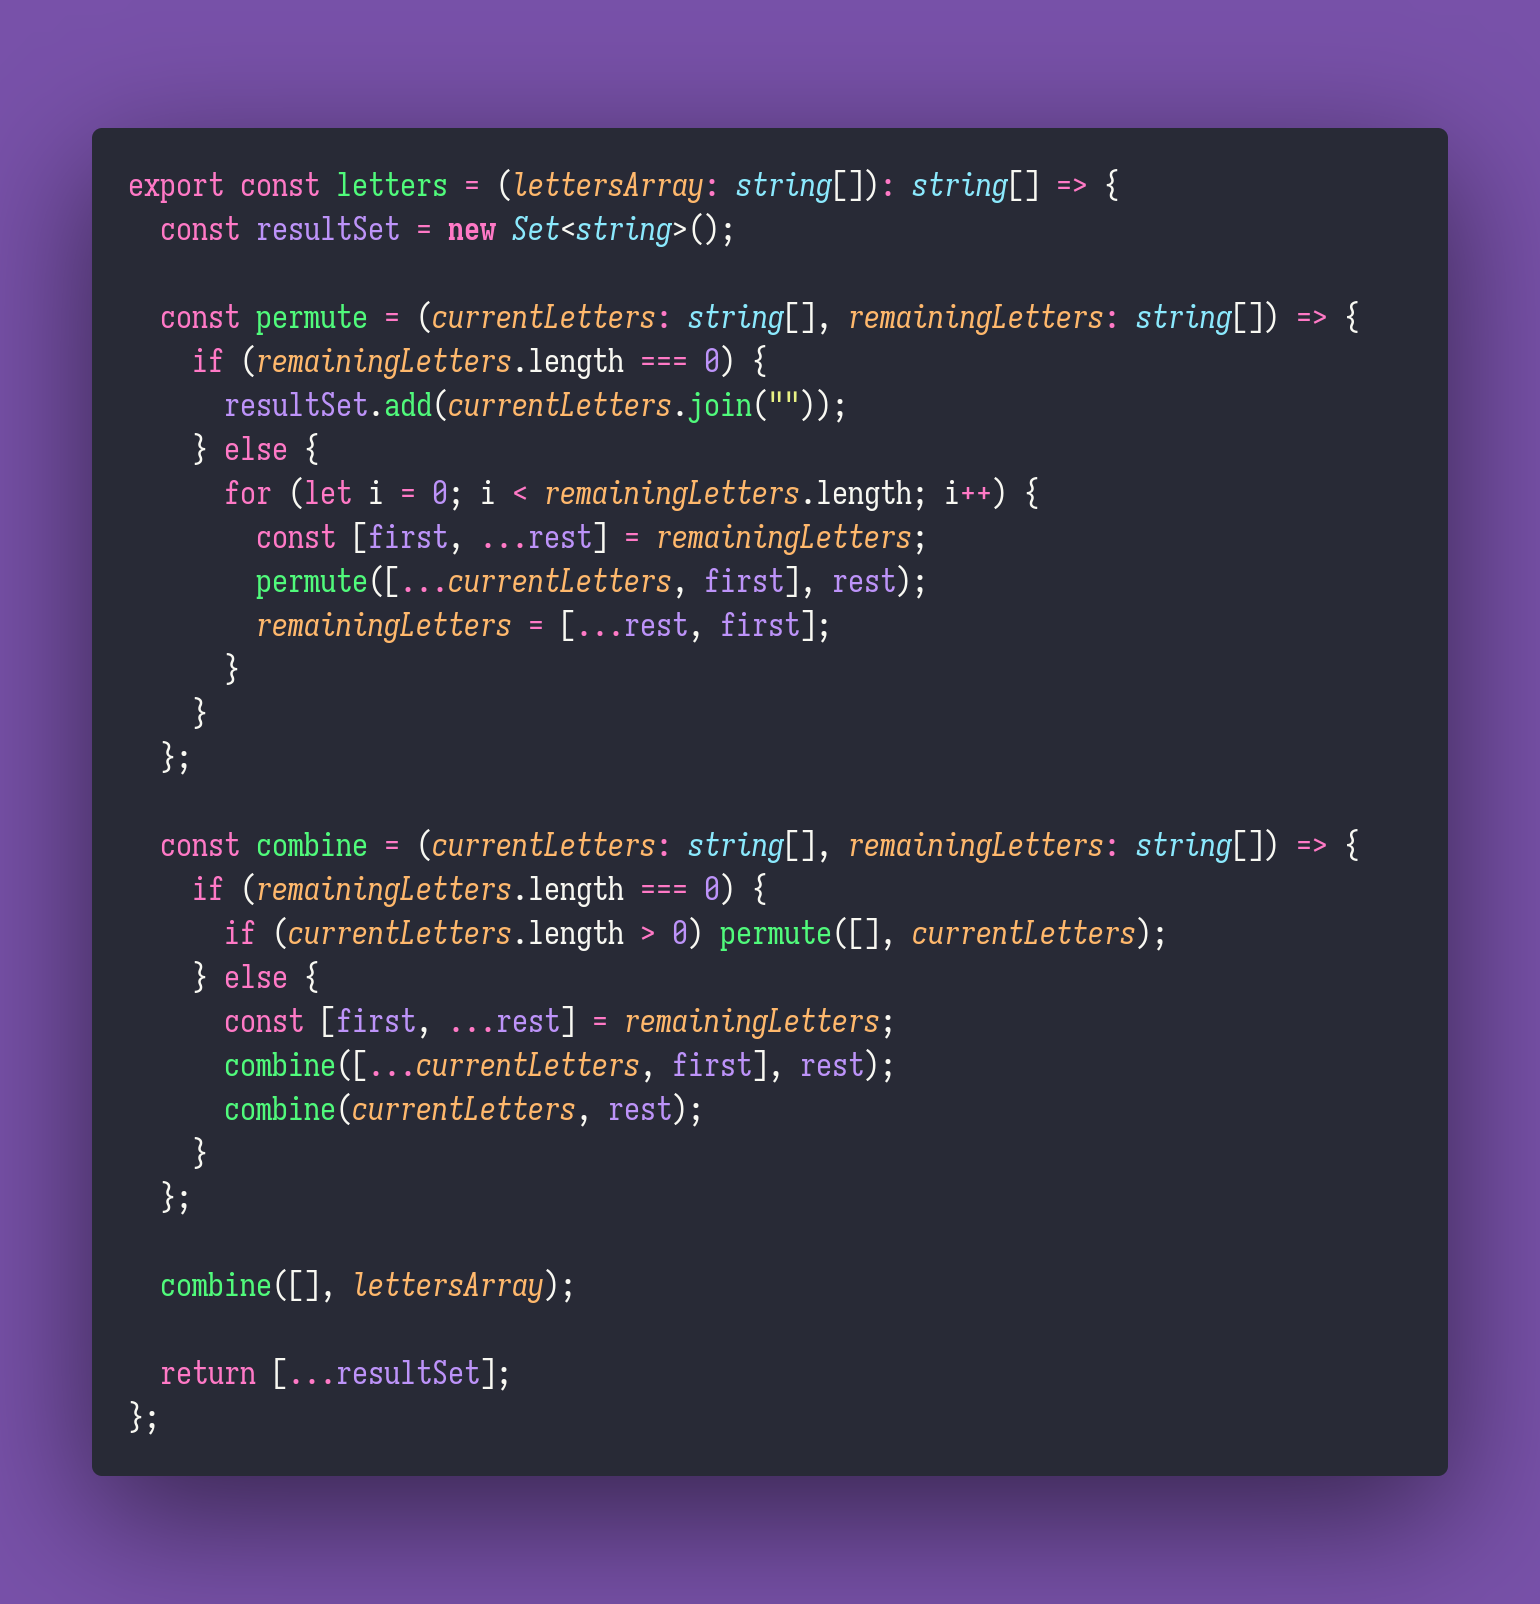
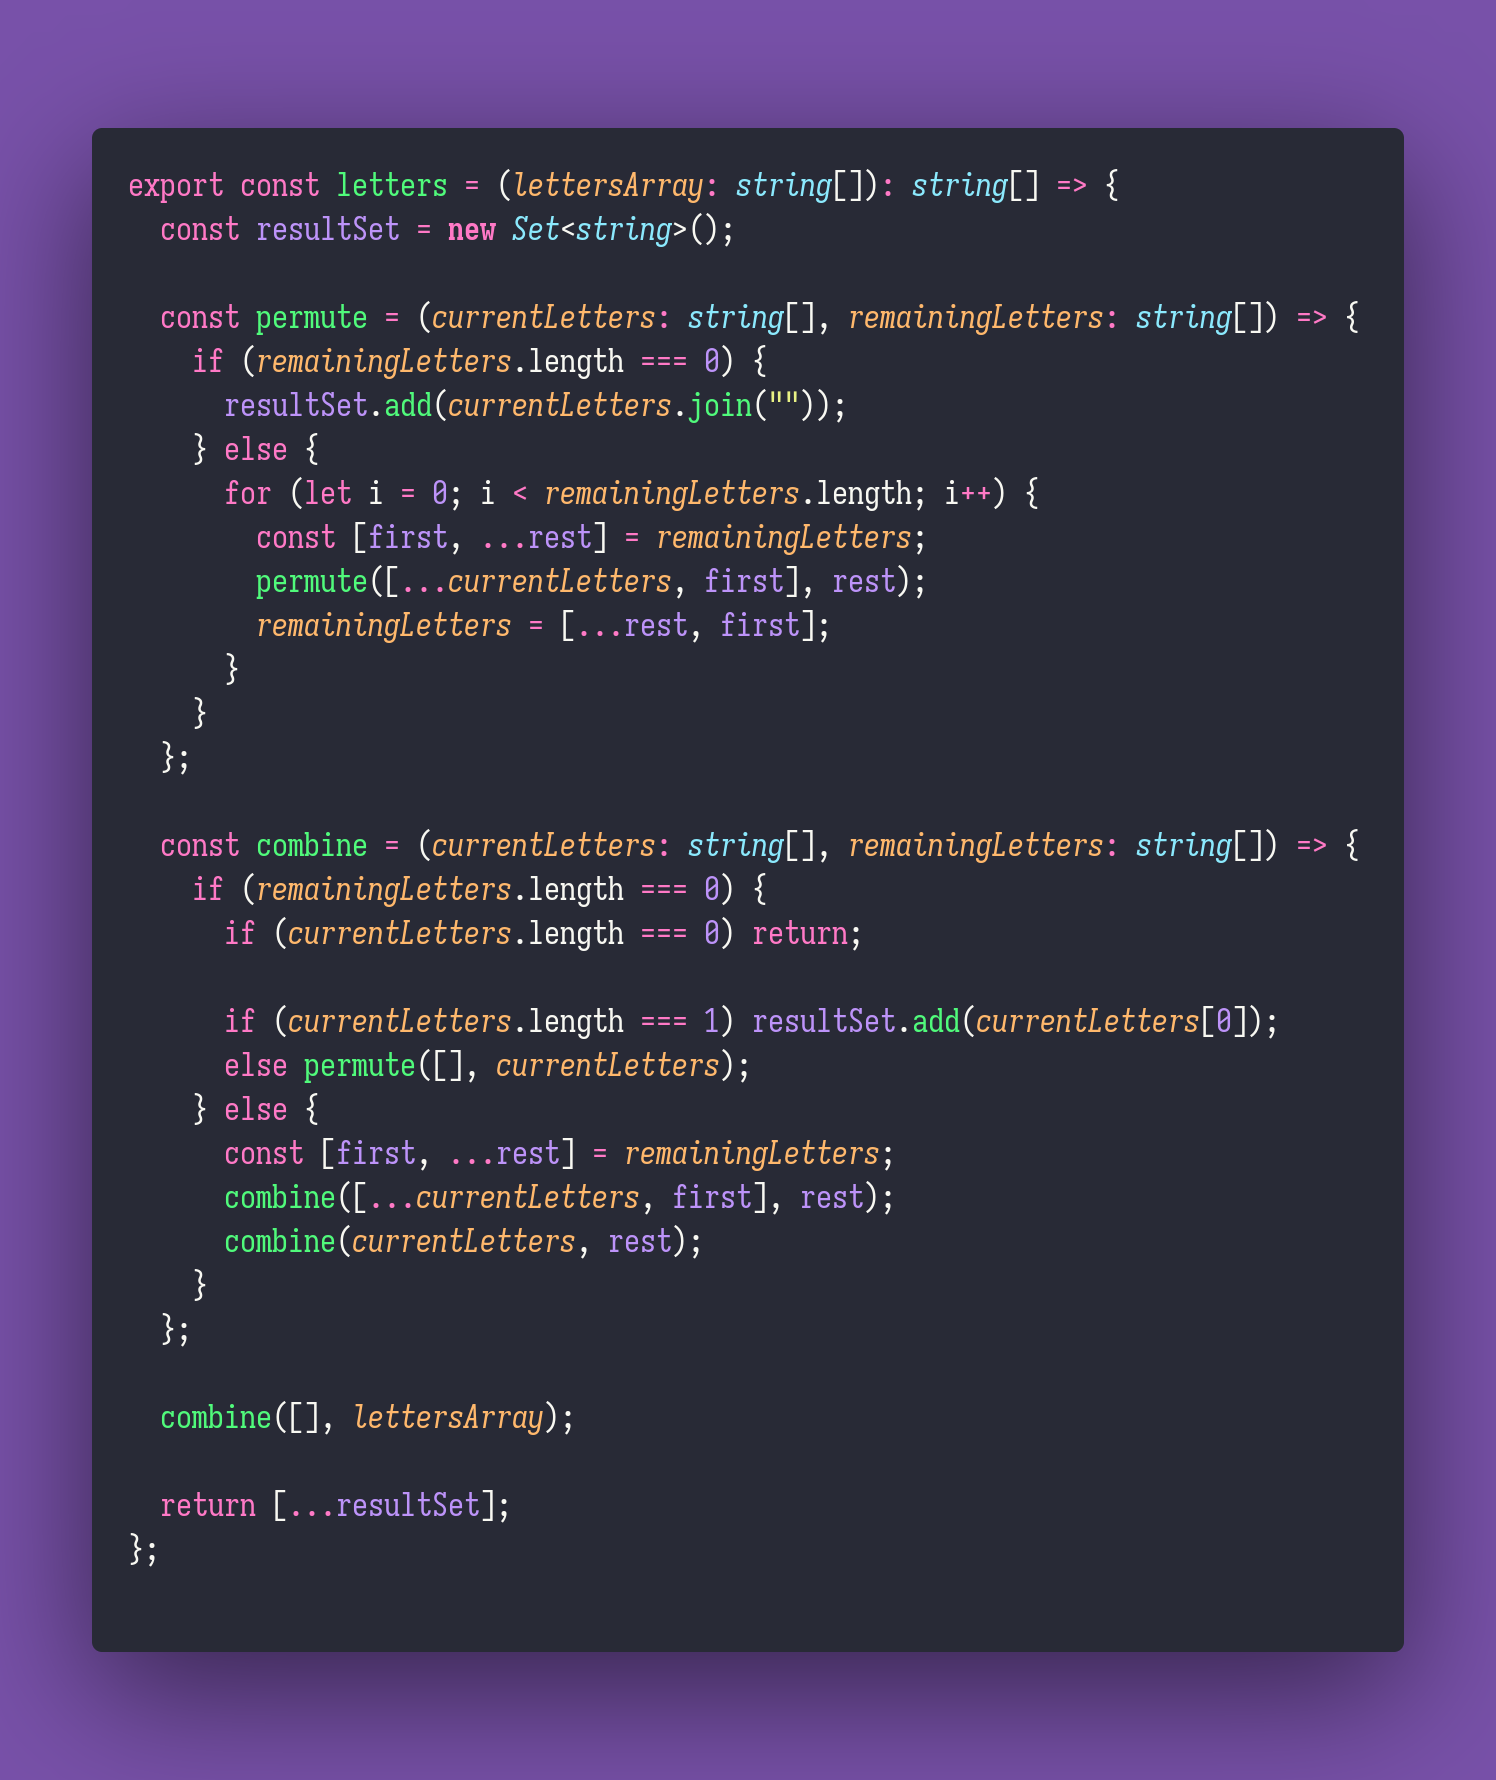
:zap: Skip permutation over length: 1

diff --git a/src/334-letters/letters.ts b/src/334-letters/letters.ts
@@ -32,7 +32,10 @@ export const letters = (lettersArray: string[]): string[] => {
 
   const combine = (currentLetters: string[], remainingLetters: string[]) => {
     if (remainingLetters.length === 0) {
-      if (currentLetters.length > 0) permute([], currentLetters);
+      if (currentLetters.length === 0) return;
+
+      if (currentLetters.length === 1) resultSet.add(currentLetters[0]);
+      else permute([], currentLetters);
     } else {
       const [first, ...rest] = remainingLetters;
       combine([...currentLetters, first], rest);
